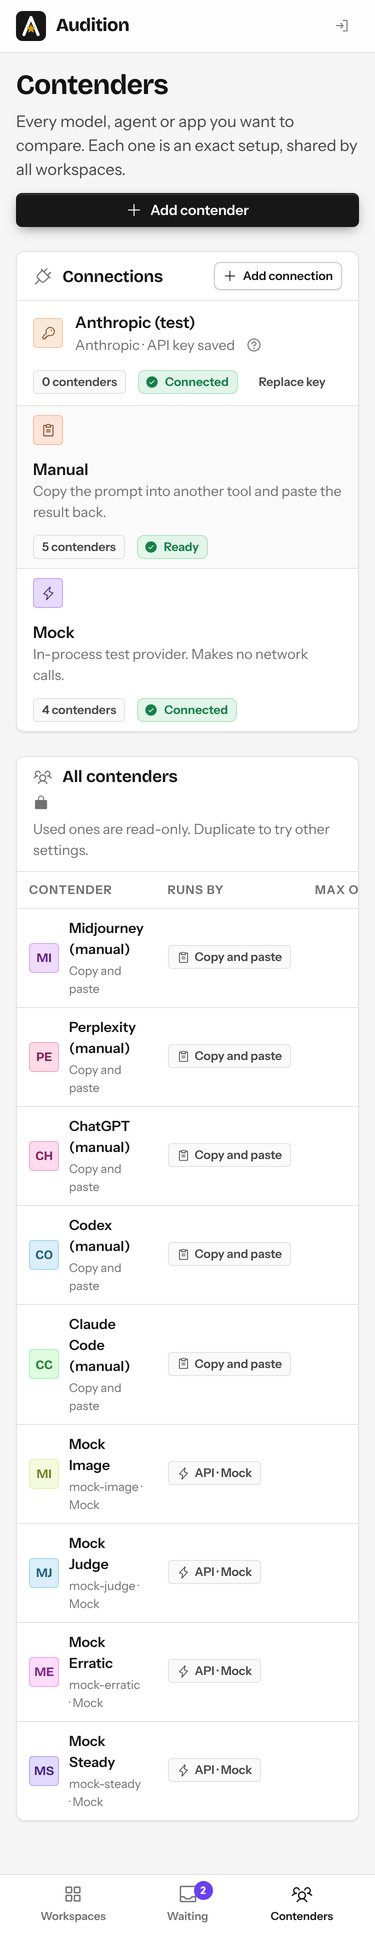
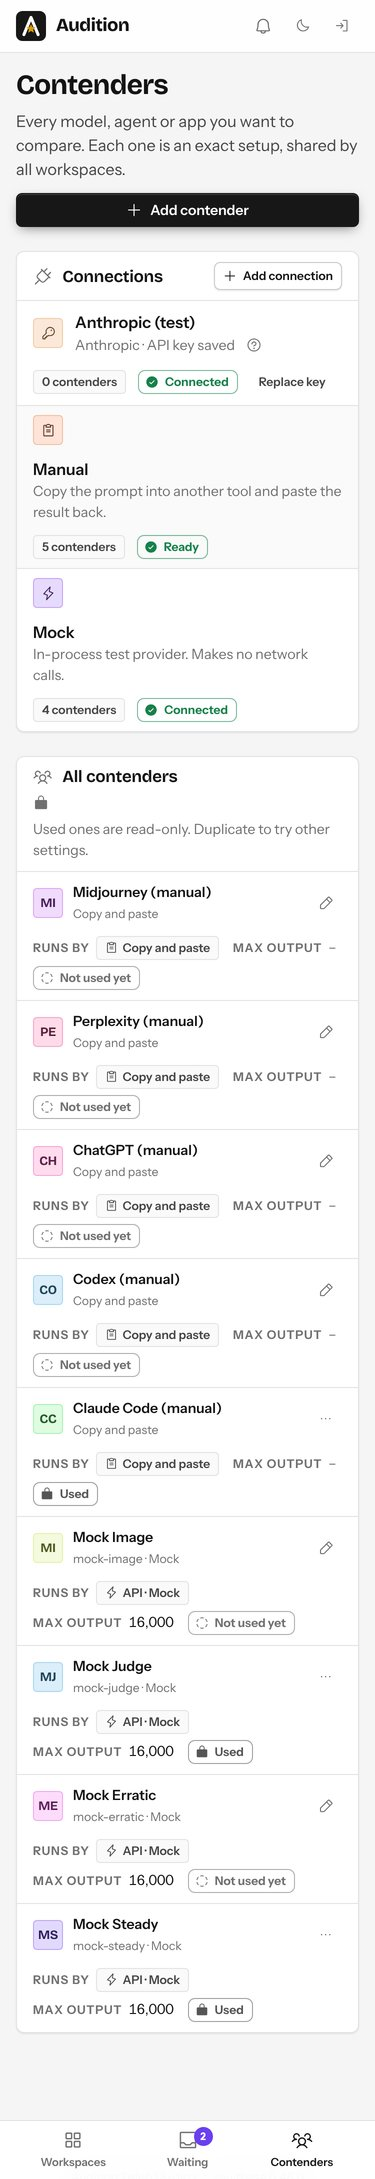
Phone width: table rows become cards, tooltips don't stick after a tap
On a phone, the Contenders, Recent runs, run outputs and leaderboard tables
scrolled sideways. Below 40rem a .table--cards table now shows each row as a
card with labelled cells. Hover tooltips apply only where the device can
hover, so a tapped header icon no longer leaves its tip on screen. The
walkthrough checks every screen it photographs at 375 px for sideways scroll.

Claude-Session: https://claude.ai/code/session_01VejDCx3X52MyTExj4rxkCD

diff --git a/ui/src/pages/leaderboard/[role].js b/ui/src/pages/leaderboard/[role].js
@@ -115,14 +115,14 @@ export default function leaderboard() {
         const isCast = cast?.contender === r.contender;
         return html`<tr class="${r.contender === lb.suggested ? "is-suggested" : ""}" data-contender="${r.name}">
           <td><span class="who">${avatar(r.name, "sm")}<strong>${r.name}</strong>${isCast ? html`<span data-tip="Champion" class="inline-flex">${icon("champion", "gold")}</span>` : r.contender === lb.suggested ? html`<span data-tip="Suggested champion" class="inline-flex">${icon("sparkle", "gold")}</span>` : ""}</span></td>
-          <td class="num">${r.n}${r.n_guest ? html` <span class="xs muted" data-testid="guest-n" data-tip="${plural(r.n_guest, "score") + " of these " + (r.n_guest === 1 ? "is" : "are") + " from guests: on an output with enough guest votes, the guests together count as one more judge."}" tabindex="0">(${r.n_guest} from guests)</span>` : ""}</td>
-          <td class="num"><span class="score">${icon("star")}${stars1(r.mean_score)}</span></td>
-          <td>${range ? html`<span class="range" data-tip="${`${stars1(r.ci_low)} to ${stars1(r.ci_high)}${r.ci_high - r.ci_low > 1.5 ? ": wide, so not consistent yet" : ""}`}"><span class="range__band" style="${`left:${pos(r.ci_low)}%;width:${pos(r.ci_high) - pos(r.ci_low)}%`}"></span><span class="range__pass" style="${`left:${pos(role.pass_mark)}%`}"></span><span class="range__dot" style="${`left:${pos(r.mean_score)}%`}"></span></span>` : html`<span class="xs muted">needs 2 outputs</span>`}</td>
-          ${outcomeCol ? html`<td class="${"num" + (r.n_outcome ? "" : " muted")}">${r.n_outcome ? html`<span class="score" data-tip="${"Was the call right? Average of " + plural(r.n_outcome, "check")}">${icon("star")}${stars1(r.mean_outcome)} <span class="xs muted">(${r.n_outcome})</span></span>` : html`<span class="xs muted">none yet</span>`}</td>` : ""}
-          <td class="${"num" + (r.mean_tokens == null ? " muted" : "")}">${r.mean_tokens == null ? "N/A" : short(r.mean_tokens)}</td>
-          <td class="${"num" + (r.mean_time_ms == null ? " muted" : "")}">${r.mean_time_ms == null ? "N/A" : duration(r.mean_time_ms)}</td>
-          <td class="${"num" + (r.mean_cost == null ? " muted" : "")}">${money(r.mean_cost)}</td>
-          <td>${r.enough_data === false || r.n < min ? chip("draft", `${Math.min(r.n, min)} of ${min} outputs`) : html`<span class="fitness-bar"><span class="fitness-bar__track"><span class="fitness-bar__fill" style="${"width:" + Math.max(0, (r.fitness / maxFit) * 100) + "%"}"></span></span><strong class="num">${(r.fitness ?? 0).toFixed(2)}</strong><button class="info-btn" type="button" popovertarget="${fitPop}" aria-label="${"How fitness is worked out for " + r.name}">${icon("help")}</button></span>
+          <td class="num" data-label="Outputs">${r.n}${r.n_guest ? html` <span class="xs muted" data-testid="guest-n" data-tip="${plural(r.n_guest, "score") + " of these " + (r.n_guest === 1 ? "is" : "are") + " from guests: on an output with enough guest votes, the guests together count as one more judge."}" tabindex="0">(${r.n_guest} from guests)</span>` : ""}</td>
+          <td class="num" data-label="Average"><span class="score">${icon("star")}${stars1(r.mean_score)}</span></td>
+          <td data-label="Likely range">${range ? html`<span class="range" data-tip="${`${stars1(r.ci_low)} to ${stars1(r.ci_high)}${r.ci_high - r.ci_low > 1.5 ? ": wide, so not consistent yet" : ""}`}"><span class="range__band" style="${`left:${pos(r.ci_low)}%;width:${pos(r.ci_high) - pos(r.ci_low)}%`}"></span><span class="range__pass" style="${`left:${pos(role.pass_mark)}%`}"></span><span class="range__dot" style="${`left:${pos(r.mean_score)}%`}"></span></span>` : html`<span class="xs muted">needs 2 outputs</span>`}</td>
+          ${outcomeCol ? html`<td class="${"num" + (r.n_outcome ? "" : " muted")}" data-label="Outcome">${r.n_outcome ? html`<span class="score" data-tip="${"Was the call right? Average of " + plural(r.n_outcome, "check")}">${icon("star")}${stars1(r.mean_outcome)} <span class="xs muted">(${r.n_outcome})</span></span>` : html`<span class="xs muted">none yet</span>`}</td>` : ""}
+          <td class="${"num" + (r.mean_tokens == null ? " muted" : "")}" data-label="Tokens">${r.mean_tokens == null ? "N/A" : short(r.mean_tokens)}</td>
+          <td class="${"num" + (r.mean_time_ms == null ? " muted" : "")}" data-label="Time">${r.mean_time_ms == null ? "N/A" : duration(r.mean_time_ms)}</td>
+          <td class="${"num" + (r.mean_cost == null ? " muted" : "")}" data-label="Cost">${money(r.mean_cost)}</td>
+          <td data-label="Fitness">${r.enough_data === false || r.n < min ? chip("draft", `${Math.min(r.n, min)} of ${min} outputs`) : html`<span class="fitness-bar"><span class="fitness-bar__track"><span class="fitness-bar__fill" style="${"width:" + Math.max(0, (r.fitness / maxFit) * 100) + "%"}"></span></span><strong class="num">${(r.fitness ?? 0).toFixed(2)}</strong><button class="info-btn" type="button" popovertarget="${fitPop}" aria-label="${"How fitness is worked out for " + r.name}">${icon("help")}</button></span>
             <div class="pop" id="${fitPop}" popover><div class="pop__head">${icon("trophy")}Fitness for ${r.name}</div><div class="pop__body"><dl>
               <dt>${icon("star")}Quality × ${w.quality}</dt><dd>+${q.toFixed(2)}</dd>
               ${w.tokens ? html`<dt>${icon("tokens")}Tokens × ${w.tokens}</dt><dd class="${used.has("tokens") ? "" : "muted"}">${used.has("tokens") ? "−" + t.toFixed(2) : "left out"}</dd>` : ""}
@@ -147,7 +147,7 @@ export default function leaderboard() {
         ${champBox()}
         <div class="panel">
           <div class="panel__head"><h2 class="h-md">${icon("leaderboard")}Contenders</h2><label class="switch"><input type="checkbox" @change="${(e) => { ui.group = e.target.checked; }}"><span class="switch__track"></span>Group by model</label></div>
-          ${rows.length ? html`<div class="table-wrap"><table>
+          ${rows.length ? html`<div class="table-wrap"><table class="table--cards">
             <thead><tr><th>Contender</th><th class="num">Outputs</th><th class="num">Average</th><th>Likely range <button class="info-btn" type="button" popovertarget="${rangePop}" aria-label="What is the likely range?">${icon("help")}</button></th>${outcomeCol ? html`<th class="num"><span data-tip="Was the call right, checked later. Shown on its own; it doesn't change the average or fitness." tabindex="0">Outcome</span></th>` : ""}<th class="num">Tokens</th><th class="num">Time</th><th class="num">Cost</th><th>Fitness</th><th></th></tr></thead>
             <tbody>${() => (ui.group ? groups().map(([g, rs]) => html`<tr class="group-row"><td colspan="9"><span class="eyebrow">${g}</span></td></tr>${rs.map(row)}`) : rows.map(row))}</tbody>
           </table></div>` : empty("leaderboard", "No scored outputs yet", "Judge some outputs and they show up here.")}

diff --git a/ui/src/styles/app.css b/ui/src/styles/app.css
@@ -89,7 +89,7 @@ body::before { content: ""; position: fixed; inset: 0 0 auto; height: env(safe-a
 .count.is-bumped { animation: bump 500ms var(--ease-spring); }
 @keyframes bump { 30% { transform: scale(1.35); } }
 .icon-btn { width: 32px; height: 32px; border-radius: var(--r-md); display: inline-grid; place-items: center; border: 0; background: transparent; color: var(--text-muted); cursor: pointer; transition: background var(--t-fast), color var(--t-fast), transform var(--t-fast); }
-.icon-btn:hover { background: var(--surface-hover); color: var(--text); }
+@media (hover: hover) { .icon-btn:hover { background: var(--surface-hover); color: var(--text); } }
 .icon-btn:active { transform: scale(0.92); }
 
 .page {
@@ -147,8 +147,19 @@ body::before { content: ""; position: fixed; inset: 0 0 auto; height: env(safe-a
   transition: opacity var(--t-fast), transform var(--t-med) var(--ease-out); transition-delay: 0ms;
 }
 [data-tip=""]::after { display: none; }
-[data-tip]:hover::after, [data-tip]:focus-visible::after { opacity: 1; transform: translate(-50%, 0); transition-delay: 250ms; }
+/* Hover tips only where there is a real pointer: on a phone, a tap leaves
+   :hover stuck, so the tip stayed on screen after tapping the button (Nov 2026).
+   On touch, a plain label with a tip (tabindex="0", not a button or link) shows
+   it while tapped, and a tap elsewhere hides it. */
+@media (hover: hover) { [data-tip]:hover::after { opacity: 1; transform: translate(-50%, 0); transition-delay: 250ms; } }
+[data-tip]:focus-visible::after { opacity: 1; transform: translate(-50%, 0); transition-delay: 250ms; }
+@media (hover: none) { [data-tip][tabindex]:not(a, button):focus::after { opacity: 1; transform: translate(-50%, 0); } }
 [data-tip-side="bottom"]::after { bottom: auto; top: calc(100% + 8px); }
+/* A tip on something at the right edge opens leftwards, so it never sticks out past the screen. */
+[data-tip-align="end"]::after { left: auto; right: 0; transform: translate(0, 4px); }
+[data-tip-align="end"]:focus-visible::after { transform: none; }
+@media (hover: hover) { [data-tip-align="end"]:hover::after { transform: none; } }
+@media (hover: none) { [data-tip-align="end"][tabindex]:focus::after { transform: none; } }
 
 /* ---------- Popovers (native popover attribute, positioned by JS) ---------- */
 .pop {
@@ -268,6 +279,28 @@ tbody tr { transition: background var(--t-fast); }
 tbody tr:hover { background: var(--surface-2); }
 td.num, th.num { text-align: right; font-variant-numeric: tabular-nums; white-space: nowrap; }
 tr.is-suggested td { background: color-mix(in srgb, var(--gold-soft) 70%, transparent); }
+/* Phone width: a .table--cards table turns each row into a small card, so it
+   never scrolls sideways. The first cell (the name) and the last cell (the
+   row's button) share the top line; the cells between wrap underneath, each
+   with its column name from data-label. The header row stays for screen readers. */
+@media (max-width: 40rem) {
+  .table-wrap:has(> .table--cards) { overflow-x: visible; }
+  .table--cards, .table--cards tbody { display: block; }
+  .table--cards thead { position: absolute; width: 1px; height: 1px; overflow: hidden; clip-path: inset(50%); white-space: nowrap; }
+  .table--cards tr { display: flex; flex-wrap: wrap; align-items: center; gap: 6px 14px; padding: 10px 16px; border-top: 1px solid var(--line); }
+  .table--cards tbody tr:first-child { border-top: 0; }
+  .table--cards td { display: inline-flex; align-items: center; gap: 6px; padding: 0; border: 0; text-align: left; order: 2; min-width: 0; }
+  .table--cards td:first-child { order: 0; flex: 1 1 0; }
+  .table--cards td:last-child:not(:first-child) { order: 1; flex: none; }
+  .table--cards td:last-child:empty { display: none; }
+  /* Push the middle cells onto their own line under the name. */
+  .table--cards tr::after { content: ""; order: 1; flex-basis: 100%; height: 0; }
+  .table--cards td[data-label]::before { content: attr(data-label); font-size: var(--fs-xs); text-transform: uppercase; letter-spacing: 0.07em; color: var(--text-muted); font-weight: 650; }
+  .table--cards td.col-state > .row-tight { justify-content: flex-start; }
+  .table--cards tr.is-suggested { background: color-mix(in srgb, var(--gold-soft) 70%, transparent); }
+  .table--cards tr.is-suggested td { background: none; }
+  .table--cards tr.group-row td { flex: 1 1 100%; margin: -10px -16px; padding: 6px 16px; }
+}
 
 /* ---------- Notices ---------- */
 .notice { --fg: var(--text-muted); --bg: var(--surface-2); --ln: var(--line); display: flex; gap: 10px; align-items: flex-start; padding: 10px 12px; border-radius: var(--r-md); font-size: var(--fs-sm); border: 1px solid var(--ln); background: var(--bg); color: var(--text); }

diff --git a/ui/src/pages/runs/[id].js b/ui/src/pages/runs/[id].js
@@ -99,7 +99,7 @@ export default function run() {
             <p class="lede row-tight"><span class="badge">${icon(r.judge === "ai" ? "ai" : "me")}Judge: ${judgeName}</span><span class="badge">${icon(r.method === "compare" ? "judge" : "star")}${METHOD_LABEL[r.method === "compare" ? "compare" : "rate"]}${r.both_orders ? ", both ways" : ""}</span><span class="badge">${icon("time")}Started ${time(r.created)}</span><span class="badge">${plural(taskIds.length, "task")} × ${plural(r.contenders?.length || 0, "contender")}</span>${r.rerun_of ? html`<a class="badge link-plain" href="${APP + "/runs/" + r.rerun_of}">${icon("again")}Again from ${runLabel(d, { id: r.rerun_of })}</a>` : ""}</p></div>
           <div class="row">
             <a class="btn" href="${APP + "/leaderboard/" + r.role}">${icon("leaderboard")}Leaderboard</a>
-            ${() => (v().run.status === "done" ? html`<button class="btn btn--primary" type="button" @click="${again}">${icon("again", "i--spin-on-hover")}Run again</button>` : html`<span data-tip="Available when every output is in and judged" tabindex="0"><button class="btn" type="button" disabled>${icon("again")}Run again</button></span>`)}
+            ${() => (v().run.status === "done" ? html`<button class="btn btn--primary" type="button" @click="${again}">${icon("again", "i--spin-on-hover")}Run again</button>` : html`<span data-tip="Available when every output is in and judged" data-tip-align="end" tabindex="0"><button class="btn" type="button" disabled>${icon("again")}Run again</button></span>`)}
           </div>
         </div>
 
@@ -136,7 +136,7 @@ export default function run() {
                 ${() => (waiting() ? html`<a class="btn btn--sm btn--primary" href="${APP + "/handoff/" + r.id + "/" + tid}">${icon("paste")}Paste replies</a>` : "")}
                 ${() => (judgeable() ? html`<a class="btn btn--sm" href="${APP + "/judge/" + r.id + "/" + tid}">${icon("judge")}Open judging</a>` : html`<span class="muted small">Judging starts as outputs arrive</span>`)}
               </div></div>
-            <div class="table-wrap"><table>
+            <div class="table-wrap"><table class="table--cards">
               <thead><tr><th>Contender</th><th class="col-state">State</th><th class="num">Tokens</th><th class="num">Time</th><th></th></tr></thead>
               <tbody>${() => rows().map((a) => attemptRow(d, r, a))}</tbody>
             </table></div>
@@ -264,5 +264,5 @@ function attemptRow(d, r, a) {
   const state = a.status === "failed"
     ? html`<span class="row-tight"><button class="info-btn" type="button" popovertarget="${pop}" aria-label="Why it failed">${icon("info")}</button>${chip("error", "Failed", "is-new")}<div class="pop" id="${pop}" popover><div class="pop__head text-error">${icon("error")}This output failed</div><div class="pop__body"><p>It won't be scored. Use <strong>Run again</strong> once the run finishes to try it fresh.</p>${a.error ? html`<code class="xs">${a.error}</code>` : ""}</div></div></span>`
     : outputChip(a.status, r.judge);
-  return html`<tr><td>${html`<span class="who">${avatar(name, "sm")}${name}</span>`}</td><td class="col-state">${state}</td><td class="${"num" + (tokens == null ? " muted" : "")}">${tokens == null ? "–" : num(tokens)}</td><td class="${"num" + (a.duration_ms == null ? " muted" : "")}">${duration(a.duration_ms)}</td><td class="num">${action}</td></tr>`.key(a.id + a.status);
+  return html`<tr><td>${html`<span class="who">${avatar(name, "sm")}${name}</span>`}</td><td class="col-state">${state}</td><td class="${"num" + (tokens == null ? " muted" : "")}" data-label="Tokens">${tokens == null ? "–" : num(tokens)}</td><td class="${"num" + (a.duration_ms == null ? " muted" : "")}" data-label="Time">${duration(a.duration_ms)}</td><td class="num">${action}</td></tr>`.key(a.id + a.status);
 }

diff --git a/test/ui-walkthrough.test.ts b/test/ui-walkthrough.test.ts
@@ -66,7 +66,30 @@ async function pick(id: string, label: string) {
   await p.click(`#${id}`);
   await p.locator(".dd__menu:popover-open .dd__opt", { hasText: label }).first().click();
 }
+// Phone width: nothing on the page may scroll sideways (the page itself, or a
+// table inside its .table-wrap). The output carousel (.outputs) swipes on purpose.
+const sideways: string[] = [];
+async function fitsPhone(name: string) {
+  await p.setViewportSize({ width: 375, height: 800 });
+  await p.waitForTimeout(150);
+  const wide = await p.evaluate(() => {
+    const out: string[] = [];
+    const root = document.documentElement;
+    if (root.scrollWidth > root.clientWidth + 1) {
+      // Name the outermost element that sticks out, to make a failure easy to find.
+      const over = [...document.querySelectorAll<HTMLElement>("body *")].find((el) => el.getBoundingClientRect().right > root.clientWidth + 1);
+      out.push(`page ${root.scrollWidth}px (${over ? over.tagName.toLowerCase() + "." + [...over.classList].join(".") + " " + (over.getAttribute("data-tip") || over.textContent || "").trim().slice(0, 40) : "?"})`);
+    }
+    for (const el of document.querySelectorAll<HTMLElement>("#main .table-wrap, #main .panel, #main .list > li")) {
+      if (el.scrollWidth > el.clientWidth + 1) out.push(`${el.className || el.tagName} ${el.scrollWidth}px > ${el.clientWidth}px`);
+    }
+    return out;
+  });
+  for (const w of wide) sideways.push(`${name}: ${w}`);
+  await p.setViewportSize({ width: 1280, height: 900 });
+}
 async function shot(name: string) {
+  await fitsPhone(name);
   if (!SCREENS) return;
   mkdirSync(SCREENS, { recursive: true });
   await p.evaluate(() => { document.getElementById("toaster")!.style.visibility = "hidden"; });
@@ -436,3 +459,29 @@ test("Travel Research: judge as me, then confirm a champion on the leaderboard",
 test("the browser saw no script errors", () => {
   expect(errors).toEqual([]);
 });
+
+test("no screen scrolls sideways at phone width (375 px)", () => {
+  expect(sideways).toEqual([]);
+});
+
+test("on a phone, tapping a header icon doesn't leave its tooltip stuck on screen", async () => {
+  const { devices } = await import("playwright");
+  const phone = await browser.newContext({ ...devices["iPhone 13"], storageState: await ctx.storageState() });
+  const tp = await phone.newPage();
+  try {
+    await tp.goto(app("/"));
+    await tp.waitForSelector("#main section:not(.is-loading)", { state: "attached" });
+    expect(await tp.evaluate(() => matchMedia("(hover: none)").matches)).toBe(true);
+    const tipShown = (sel: string) => tp.evaluate((s) => getComputedStyle(document.querySelector(s)!, "::after").opacity, sel);
+    // iOS Safari leaves the tapped button in :hover; the mouse hover here stands in for that.
+    for (const sel of ["[data-theme-toggle]", "[data-alerts]", '[aria-label="Sign out"]']) {
+      if (sel === "[data-theme-toggle]") await tp.tap(sel);
+      await tp.hover(sel);
+      await tp.waitForTimeout(600);
+      expect(await tp.evaluate((s) => document.querySelector(s)!.matches(":hover"), sel)).toBe(true);
+      expect(await tipShown(sel)).toBe("0");
+    }
+  } finally {
+    await phone.close();
+  }
+}, 60_000);

diff --git a/ui/src/pages/w/[id]/index.js b/ui/src/pages/w/[id]/index.js
@@ -40,7 +40,7 @@ export default function workspace() {
           : html`<div class="panel">${empty("rubric", "No roles yet", "A role is a job in this workflow, with a rubric that says what good looks like.", html`<a class="btn btn--primary" href="${APP + "/w/" + ws.id + "/roles/new"}">${icon("plus")}Add role</a>`)}</div>`}
         <div class="panel">
           <div class="panel__head"><h2>${icon("history")}Recent runs</h2></div>
-          ${runs.length ? html`<div class="table-wrap"><table>
+          ${runs.length ? html`<div class="table-wrap"><table class="table--cards">
             <thead><tr><th>Run</th><th>Role</th><th class="num">Outputs</th><th>Judge</th><th class="col-state">State</th><th></th></tr></thead>
             <tbody>${runs.slice(0, 12).map((r) => runRow(d, r))}</tbody></table></div>`
           : empty("play", "No runs yet", "Start a run to see contenders compete on the same tasks.")}
@@ -71,5 +71,5 @@ function roleCard(d, ws, r, lb) {
 export function runRow(d, r) {
   const st = r.status === "running" ? chip("active", "Running") : r.status === "judging" ? (r.judge === "me" ? chip("waiting", "Waiting for you") : chip("active", "Being judged")) : chip("done", "Finished");
   const again = r.rerun_of ? html` <span class="badge" data-tip="${"Started with Run again from " + runLabel(d, { id: r.rerun_of })}">${icon("again")}${runLabel(d, { id: r.rerun_of })}</span>` : "";
-  return html`<tr><td><strong>${runLabel(d, r)}</strong>${again}</td><td>${d.byId.roles.get(r.role)?.name}</td><td class="num">${(r.tasks?.length || 0) * (r.contenders?.length || 0)}</td><td><span class="badge">${icon(r.judge === "ai" ? "ai" : "me")}${r.judge === "ai" ? "AI" : "Me"}</span></td><td class="col-state">${st}</td><td class="num"><a class="btn btn--sm btn--quiet" href="${APP + "/runs/" + r.id}">Open${icon("arrow-right", "i--nudge")}</a></td></tr>`;
+  return html`<tr><td><strong>${runLabel(d, r)}</strong>${again}</td><td data-label="Role">${d.byId.roles.get(r.role)?.name}</td><td class="num" data-label="Outputs">${(r.tasks?.length || 0) * (r.contenders?.length || 0)}</td><td data-label="Judge"><span class="badge">${icon(r.judge === "ai" ? "ai" : "me")}${r.judge === "ai" ? "AI" : "Me"}</span></td><td class="col-state">${st}</td><td class="num"><a class="btn btn--sm btn--quiet" href="${APP + "/runs/" + r.id}">Open${icon("arrow-right", "i--nudge")}</a></td></tr>`;
 }

diff --git a/ui/src/pages/contenders/index.js b/ui/src/pages/contenders/index.js
@@ -85,7 +85,7 @@ export default function contenders() {
 
         <div class="panel">
           <div class="panel__head"><h2>${icon("contenders")}All contenders</h2><span class="muted small row-tight">${icon("locked")}Used ones are read-only. Duplicate to try other settings.</span></div>
-          ${latest.length ? html`<div class="table-wrap"><table>
+          ${latest.length ? html`<div class="table-wrap"><table class="table--cards">
             <thead><tr><th>Contender</th><th>Runs by</th><th class="num">Max output</th><th class="col-state">State</th><th></th></tr></thead>
             <tbody>${latest.map((c) => {
               const pop = popId();
@@ -93,8 +93,8 @@ export default function contenders() {
               const runs = usedIn(c);
               return html`<tr>
                 <td><span class="who">${avatar(c.name)}<span><span class="who__name">${c.name}</span><br><span class="who__meta">${contenderMeta(d, c) || "Default settings"}</span></span></span></td>
-                <td><span class="badge">${icon(c.mode === "handoff" ? "paste" : "api")}${c.mode === "handoff" ? "Copy and paste" : "API · " + (PROVIDER_LABEL[conn?.provider] || "")}</span></td>
-                <td class="num">${c.mode === "handoff" ? html`<span class="muted">–</span>` : num(c.max_output_tokens)}</td>
+                <td data-label="Runs by"><span class="badge">${icon(c.mode === "handoff" ? "paste" : "api")}${c.mode === "handoff" ? "Copy and paste" : "API · " + (PROVIDER_LABEL[conn?.provider] || "")}</span></td>
+                <td class="num" data-label="Max output">${c.mode === "handoff" ? html`<span class="muted">–</span>` : num(c.max_output_tokens)}</td>
                 <td class="col-state">${c.enabled === false ? chip("disabled", "Turned off") : c.locked ? chip("locked", "Used") : chip("draft", "Not used yet")}</td>
                 <td class="num">${c.locked
                   ? html`<button class="icon-btn" type="button" popovertarget="${pop}" aria-label="${c.name + " details"}">${icon("more")}</button>

diff --git a/ui/src/styles/extra.css b/ui/src/styles/extra.css
@@ -108,7 +108,7 @@ button.alert-item__link { width: 100%; font: inherit; text-align: left; cursor: 
 
 /* Light and dark toggle in the top bar (lib/theme.js) */
 .theme-btn .i { transition: transform var(--t-slow) var(--ease-spring); }
-.theme-btn:hover .i { transform: rotate(40deg); }
+@media (hover: hover) { .theme-btn:hover .i { transform: rotate(40deg); } }
 @media (prefers-color-scheme: dark) { :root:not([data-theme="light"]) .dot-count { color: #160b33; } }
 @media (prefers-reduced-motion: reduce) { .theme-btn .i { transition: none; } }
 

diff --git a/docs/NOTES.md b/docs/NOTES.md
@@ -616,3 +616,12 @@ Cas: "Stage" implies something following on something else. A Travel planner wit
 - **G2. A snapshot can't rename.** `applySnapshot` looks collections up by name, so `groups` would have been created empty next to `stages`, and `sync` drops a field missing from the snapshot (`roles.stage`, with every role's link) before adding `group` empty. Checked on 0.47.0 (`test/migrate.test.ts`, third case). Vaultbase's own collection API does rename and keeps ids and dates: a `name` change renames the table and repoints relation fields (`renameCollectionStorage`), and `renamedFrom` on a field renames the column. A field named `group` (an SQL keyword) works in filters, sort and expand, checked on 0.47.0.
 - **G3. So the migration runs before the schema.** `scripts/lib/migrate.ts` (`audition-setup migrate`) starts the binary on the stopped data folder without snapshot or hooks, renames through the API, and stops. `install.sh` runs it on upgrades (and on a reinstall over kept data); `bun run dev` runs it too. If a start skipped it (an older `install.sh`), the next run still renames `stages` and drops the empty `groups`, but the roles' links to their groups are gone: roll back instead (the rollback copy has them).
 - **G4. Open.** The live server needs the release with this change and the new `install.sh` (RELEASE.md, "Upgrades").
+
+## Phone fixes from Cas's end-to-end test (Nov 24, 2026)
+
+Cas tested v0.7.0 on an iPhone and found two problems.
+
+- **M1. Contender rows scrolled sideways.** The Contenders list is a table inside `.table-wrap` (`overflow-x: auto`), five columns wide, so at 375 px the name wrapped word by word and the Max output column was cut off at the edge. The same held for the run page's output tables (410 to 492 px) and the leaderboard (957 px). All four tables (Contenders, a workspace's Recent runs, a run's outputs, the leaderboard) now carry `table--cards`: below 40rem each row is a card with the name and its button on the first line and the other cells underneath, each labelled from `data-label`. The header row stays for screen readers. Above 40rem nothing changed, so the 1280 px screenshots and the landing page shots are unchanged.
+- **M2. Tooltips stuck after a tap.** iOS Safari keeps a tapped button in `:hover`, so the theme button's "Switch to dark mode" tip (and the bell's and Sign out's) stayed on screen. Hover tips, and the icon buttons' hover background, now apply only under `@media (hover: hover)`. Keyboard focus still shows them; on touch, a label with a tip that isn't a button or link (`tabindex="0"`, for example the leaderboard's guest-score note) shows it while tapped.
+- **M3. A hidden tip widened the run page.** The disabled "Run again" tip, centred on a button at the right edge, reached 54 px past a 375 px screen even while invisible, so the whole page could be dragged sideways. It now opens leftwards (`data-tip-align="end"`).
+- **M4. Checks.** The UI walkthrough now measures every screen it photographs at 375 px and fails if the page, a panel, a list row or a table scrolls sideways (before the fix it flagged 7 of the 22 screens for M1 and the run page for M3), and a phone test (iPhone 13 emulation) checks the header tips stay hidden in a stuck hover. `docs/screens/t4/` contenders, run-live and leaderboard-champion at 375 were retaken.

diff --git a/docs/design/README.md b/docs/design/README.md
@@ -70,7 +70,8 @@ What we took from it: the data-attribute variant pattern, native `<dialog>`, and
 | Modal image view | `<dialog>` with `showModal()` |
 | Enter and exit animation | `@starting-style`, `transition-behavior: allow-discrete` |
 | Card-style checkboxes | `:has(input:checked)` |
-| Tooltips on icon buttons and disabled controls | CSS `[data-tip]::after`, no JS |
+| Tooltips on icon buttons and disabled controls | CSS `[data-tip]::after`, no JS. Hover shows them only under `@media (hover: hover)`; keyboard focus always does. `data-tip-align="end"` opens a tip leftwards for things at the right edge. |
+| Tables on a phone | `table.table--cards`: below 40rem each row becomes a card (name and button on top, the other cells underneath with their `data-label`) |
 | Toasts | about 15 lines of JS |
 
 These work in current Chrome, Edge, Safari and Firefox. Popover positioning is a few lines of JS; CSS anchor positioning can replace it once every browser supports it.
@@ -171,6 +172,7 @@ For Cas to confirm in the PR. None of them adds scope; they decide how existing 
 - `JUDGE_DATA` in `wireframes.js` shows the shape the blind endpoint needs: letter, text, files, AI stars and reasons. No contender fields.
 - The call count assumes **one AI judging call per output**. If Architecture judges a whole task in one call, `countRun()` changes.
 - Star inputs are five radio buttons, so they work with a keyboard and screen readers.
+- Nothing scrolls sideways at 375 px: every table uses `table--cards`, and the UI walkthrough checks each screen it photographs at phone width.
 - Inputs hidden with `position: absolute` need a positioned parent (`.seg`, `.star-input`, `.check` have one), or they escape scroll containers and widen the page on phones.
 - To change the icon set, edit the list in `icons/build-sprite.mjs` and rerun it against the unpacked `@phosphor-icons/core@2.1.1` package.
 
